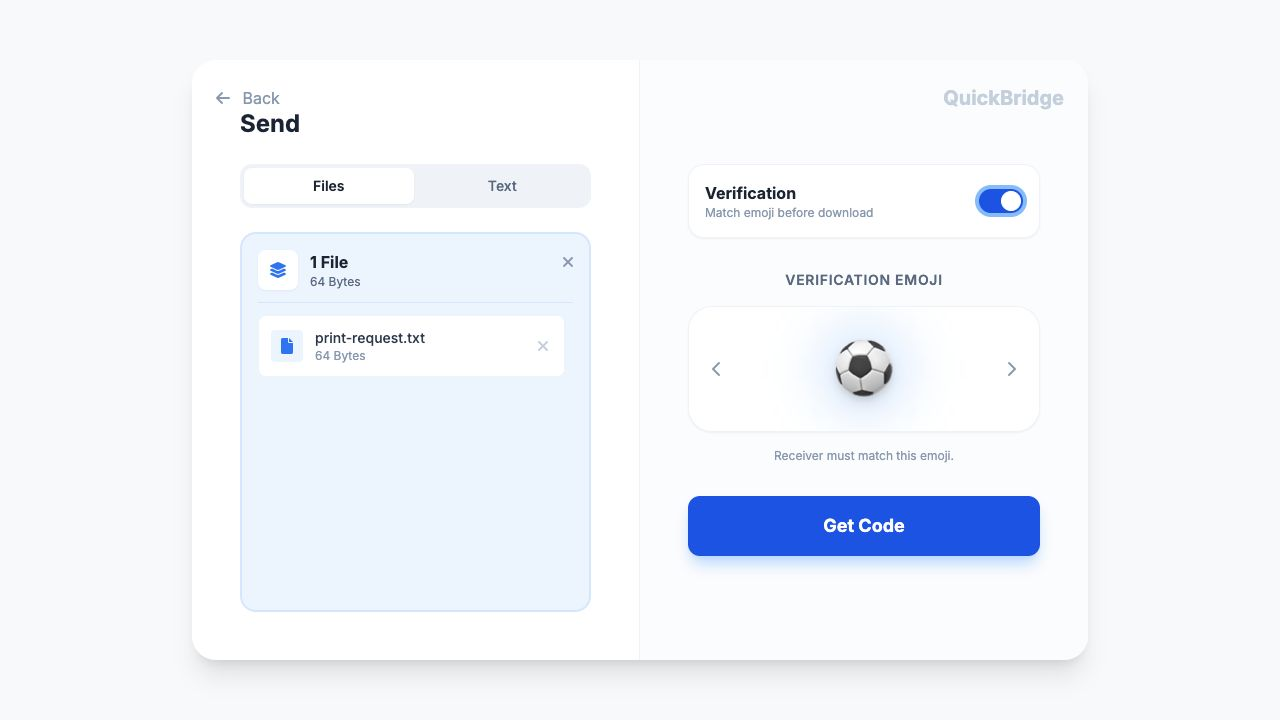
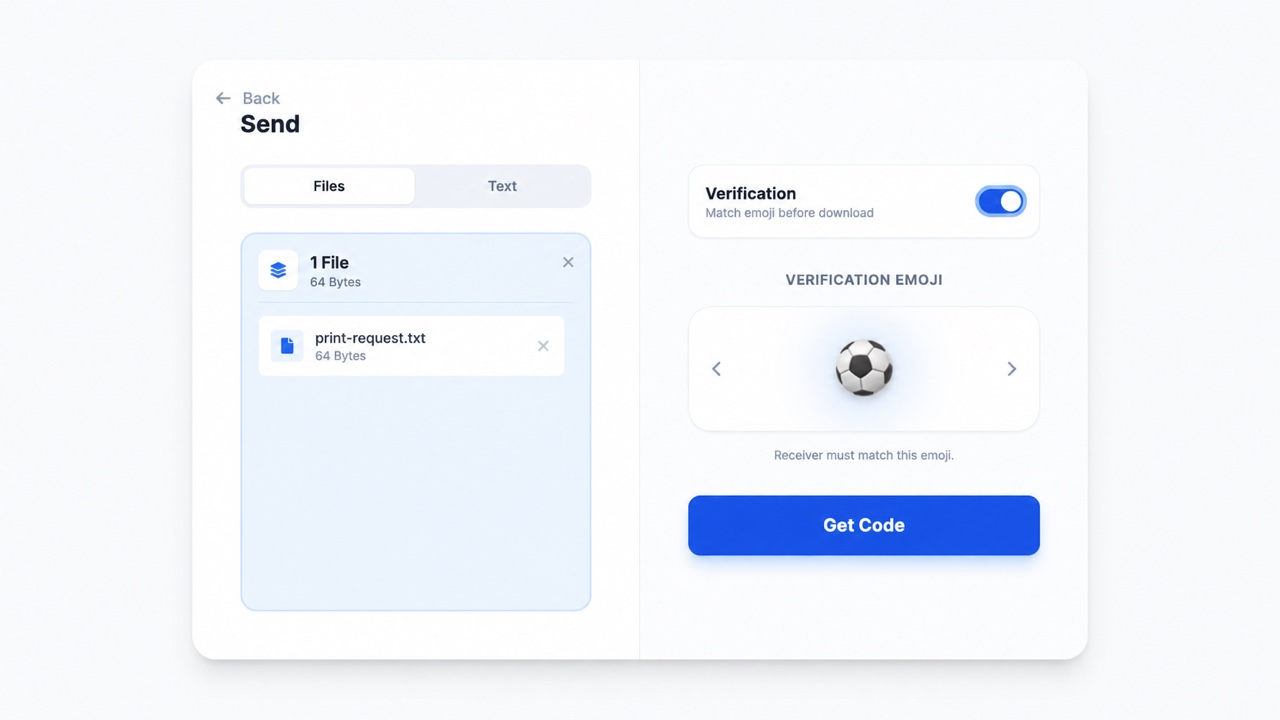
Fix sender UI and remove QuickBridge branding

diff --git a/public/index.html b/public/index.html
@@ -4,7 +4,7 @@
 <head>
     <meta charset="UTF-8">
     <meta name="viewport" content="width=device-width, initial-scale=1.0">
-    <title>QuickBridge Personal</title>
+    <title>FileSender</title>
     <script src="https://cdn.tailwindcss.com"></script>
     <link href="https://cdnjs.cloudflare.com/ajax/libs/font-awesome/6.0.0/css/all.min.css" rel="stylesheet">
     <link href="https://fonts.googleapis.com/css2?family=Inter:wght@300;400;500;600;700&display=swap" rel="stylesheet">
@@ -36,13 +36,12 @@
         class="container max-w-4xl w-full bg-white rounded-2xl md:rounded-3xl shadow-xl overflow-hidden min-h-[85vh] md:min-h-[600px] flex flex-col relative">
 
         <!-- Header / Navigation -->
-        <div class="absolute top-0 left-0 w-full p-6 flex justify-between items-center z-10 pointer-events-none">
+        <div class="absolute top-0 left-0 w-full p-6 flex justify-start items-center z-10 pointer-events-none">
             <div class="pointer-events-auto">
                 <button id="btn-back-global" class="text-slate-400 hover:text-slate-600 transition-colors hidden">
                     <i class="fas fa-arrow-left mr-2"></i> Back
                 </button>
             </div>
-            <div class="text-slate-300 font-bold text-xl select-none">QuickBridge</div>
         </div>
 
         <!-- Status Message Toast -->
@@ -105,10 +104,9 @@
                     <!-- File Input View -->
                     <div id="view-file-input"
                         class="absolute inset-0 flex flex-col transition-all duration-300 transform translate-x-0">
+                        <input type="file" id="file-input" class="hidden" multiple>
                         <div id="drop-zone"
                             class="flex-1 border-2 border-dashed border-slate-200 rounded-2xl bg-slate-50 hover:bg-blue-50 hover:border-blue-300 transition-all duration-300 cursor-pointer flex flex-col items-center justify-center p-8 group relative overflow-hidden">
-                            <input type="file" id="file-input" class="hidden" multiple>
-
                             <div class="z-10 flex flex-col items-center text-center space-y-4">
                                 <div
                                     class="w-20 h-20 bg-white rounded-full shadow-sm flex items-center justify-center group-hover:scale-110 transition-transform duration-300">
@@ -140,6 +138,10 @@
                             <div id="file-list" class="flex-1 overflow-y-auto space-y-2 pr-2 custom-scrollbar">
                                 <!-- File items injected here -->
                             </div>
+                            <button id="btn-add-files" type="button"
+                                class="mt-3 flex-shrink-0 w-full rounded-lg border border-blue-200 bg-white px-4 py-2 text-sm font-semibold text-blue-600 hover:bg-blue-100 focus-visible:outline focus-visible:outline-2 focus-visible:outline-offset-2 focus-visible:outline-blue-500">
+                                <i class="fas fa-plus mr-2" aria-hidden="true"></i>Add more files
+                            </button>
                         </div>
                     </div>
 

diff --git a/public/js/sender.js b/public/js/sender.js
@@ -2,6 +2,7 @@
     const FS = window.FileSender;
     const { elements: el, state, emojis } = FS;
     const MAX_TOTAL_SIZE = 100 * 1024 * 1024;
+    const MAX_FILES = 100;
 
     function updateEmojiDisplay() {
         el.selectedEmoji.textContent = emojis[state.currentEmojiIndex];
@@ -89,6 +90,7 @@
 
     function addFiles(files) {
         const newFiles = Array.from(files || []);
+        if (state.selectedFiles.length + newFiles.length > MAX_FILES) return FS.ui.showError('Max 100 files per transfer');
         const totalSize = [...state.selectedFiles, ...newFiles].reduce((sum, file) => sum + file.size, 0);
         if (totalSize > MAX_TOTAL_SIZE) return FS.ui.showError('Max total size is 100 MB');
         state.selectedFiles.push(...newFiles);
@@ -150,8 +152,12 @@
             el.dropZone.addEventListener('dragover', (event) => { event.preventDefault(); el.dropZone.classList.add('drag-over'); });
             el.dropZone.addEventListener('dragleave', () => el.dropZone.classList.remove('drag-over'));
             el.dropZone.addEventListener('drop', (event) => { event.preventDefault(); el.dropZone.classList.remove('drag-over'); addFiles(event.dataTransfer.files); });
-            el.fileInput.addEventListener('change', () => addFiles(el.fileInput.files));
-            el.btnClearFiles.addEventListener('click', () => { state.selectedFiles = []; renderFileList(); });
+            el.fileInput.addEventListener('change', () => {
+                addFiles(el.fileInput.files);
+                el.fileInput.value = '';
+            });
+            el.btnAddFiles.addEventListener('click', () => el.fileInput.click());
+            el.btnClearFiles.addEventListener('click', () => { state.selectedFiles = []; el.fileInput.value = ''; renderFileList(); });
             document.getElementById('btn-prev-emoji').addEventListener('click', () => { state.currentEmojiIndex = (state.currentEmojiIndex - 1 + emojis.length) % emojis.length; updateEmojiDisplay(); });
             document.getElementById('btn-next-emoji').addEventListener('click', () => { state.currentEmojiIndex = (state.currentEmojiIndex + 1) % emojis.length; updateEmojiDisplay(); });
             el.securityToggle.addEventListener('change', updateSecurityState);
@@ -175,6 +181,9 @@
             state.selectedFiles = [];
             el.fileInput.value = '';
             el.textInput.value = '';
+            const nextEmojiIndex = Math.floor(Math.random() * (emojis.length - 1));
+            state.currentEmojiIndex = nextEmojiIndex >= state.currentEmojiIndex ? nextEmojiIndex + 1 : nextEmojiIndex;
+            updateEmojiDisplay();
             el.btnUpload.disabled = false;
             el.btnUpload.textContent = 'Get code';
             el.uploadSection.classList.remove('hidden');

diff --git a/public/js/core.js b/public/js/core.js
@@ -35,6 +35,7 @@
             fileList: byId('file-list'),
             fileCount: byId('file-count'),
             totalSize: byId('total-size'),
+            btnAddFiles: byId('btn-add-files'),
             btnClearFiles: byId('btn-clear-files'),
             selectedEmoji: byId('selected-emoji-display'),
             emojiSelector: byId('emoji-selector'),

diff --git a/README.md b/README.md
@@ -6,8 +6,6 @@ Send files from your phone to a print-shop computer without logging into your em
 
 ![FileSender home screen with Send and Receive options](docs/images/app.jpg)
 
-*The app displays the name QuickBridge.*
-
 ## How it works
 
 **Your device:** select files → get a code. **Print-shop computer:** enter the code → match the emoji → download.

diff --git a/requirement.md b/requirement.md
@@ -4,7 +4,7 @@
 
 1. Overview
 
-System name: QuickBridge Personal
+System name: FileSender
 
 Goal:
 Allow two people to send files between any two devices through a website, using:
